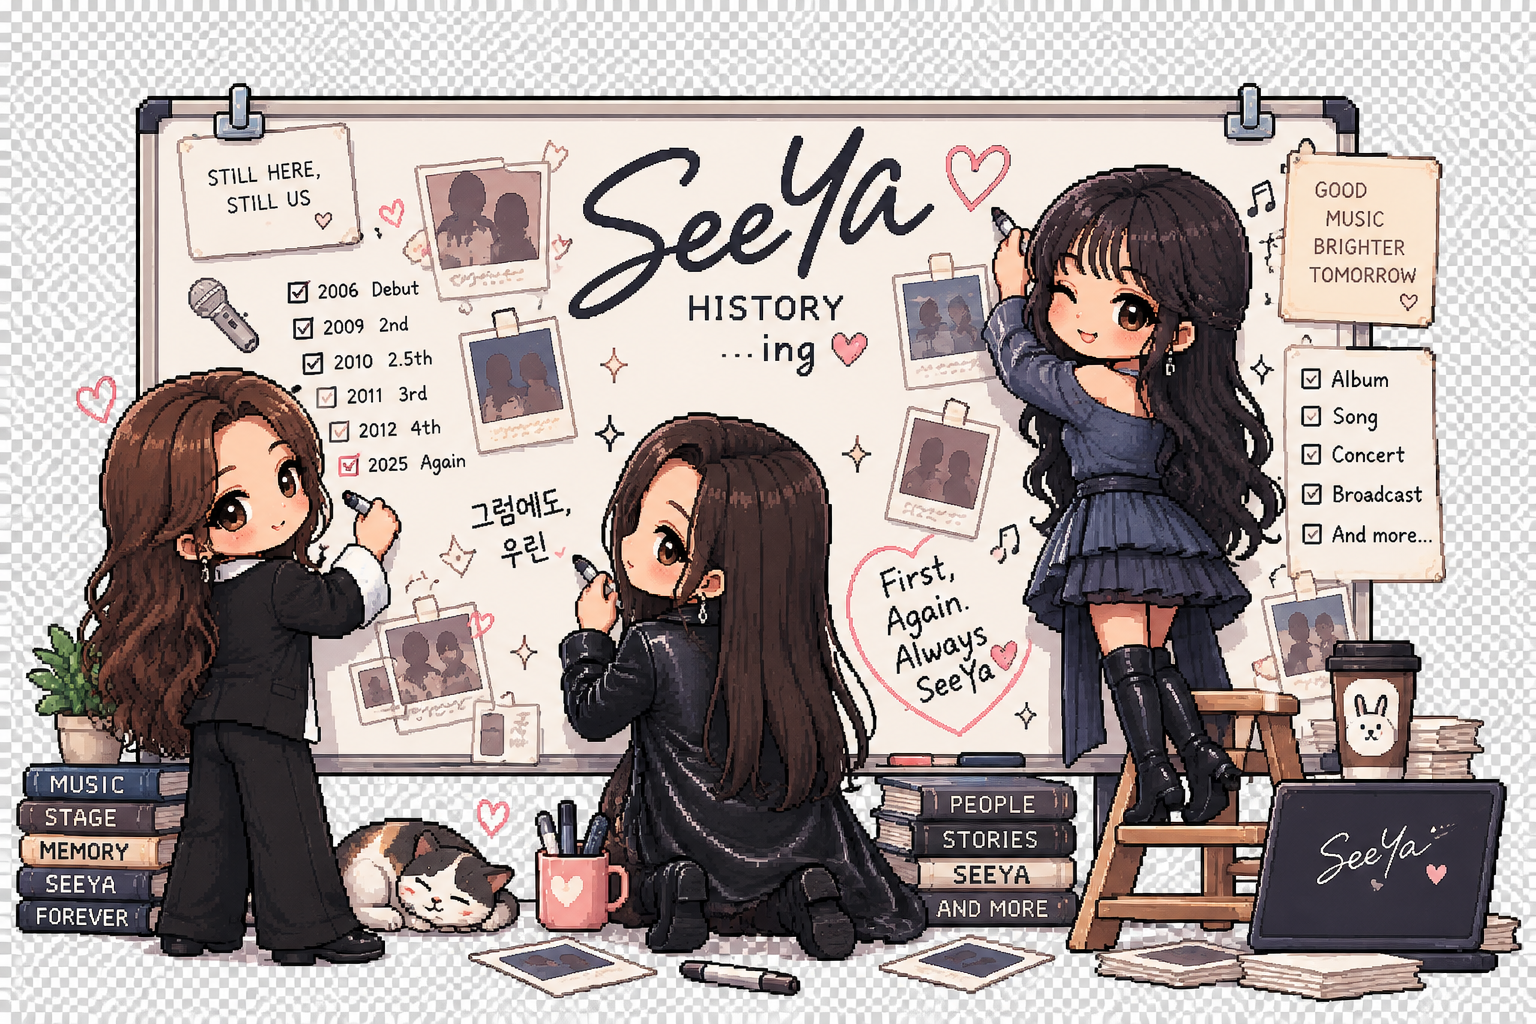
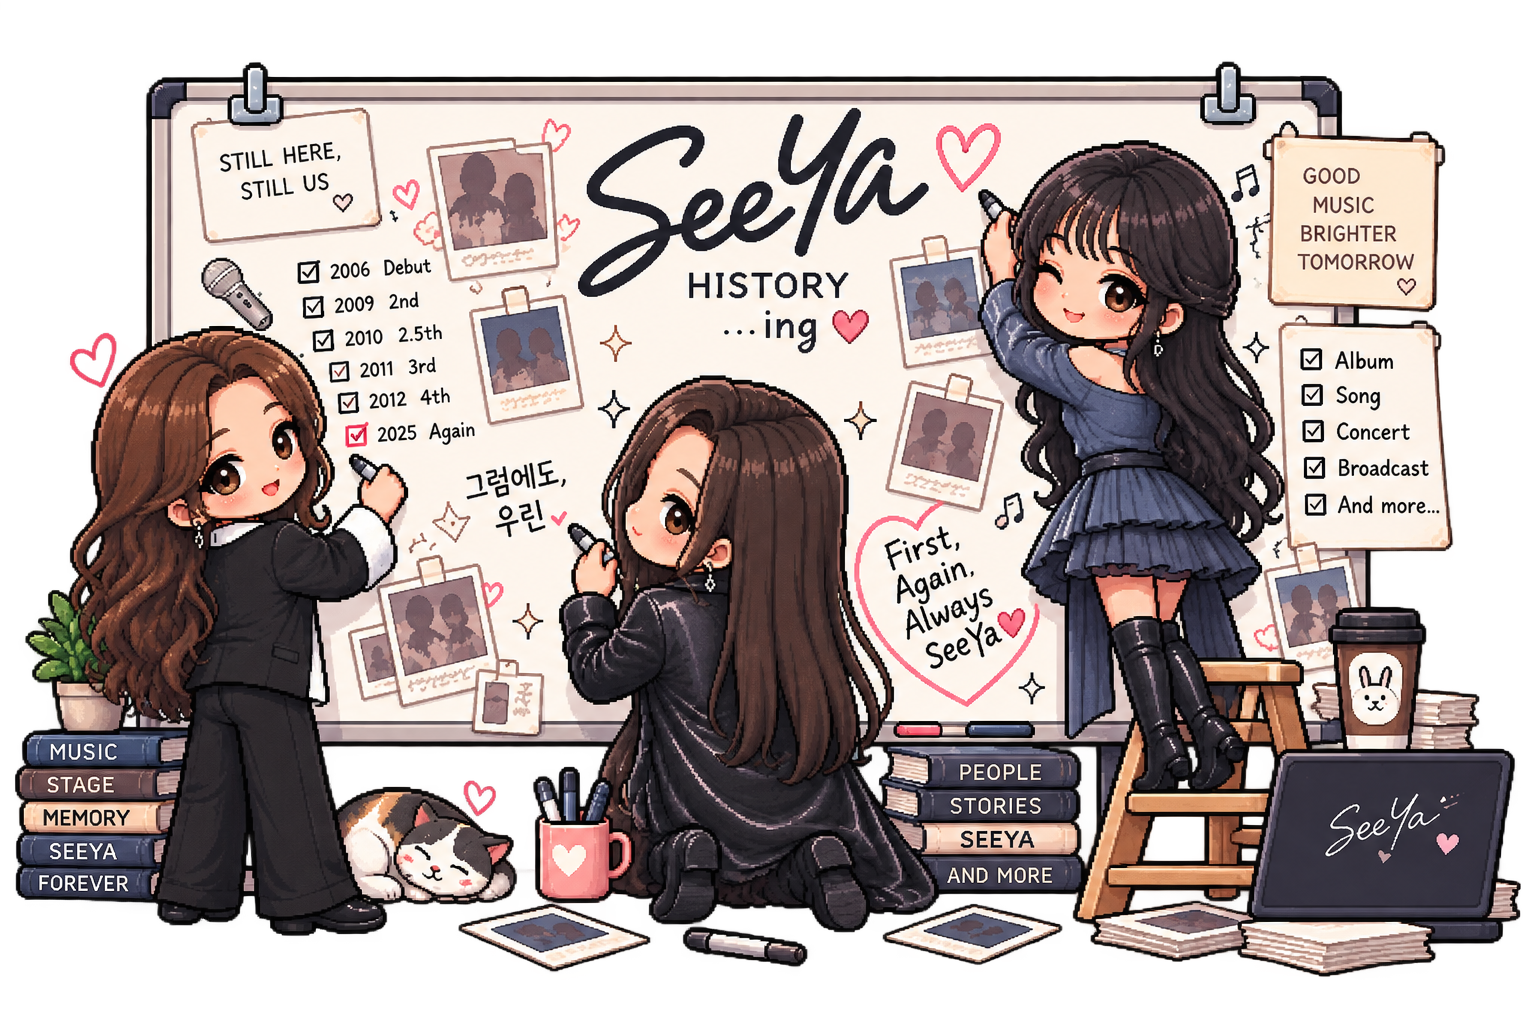
4.39

diff --git a/archive/index.html b/archive/index.html
@@ -1113,9 +1113,9 @@ body.fanchant-lightbox-open{overflow:hidden}
 /* HISTORY · CONTINUING STORY ART */
 .history-ing-art{
   position:relative;
-  width:min(1040px,96vw);
-  margin:38px auto -12px;
-  padding:22px 22px 0;
+  width:min(820px,84vw);
+  margin:34px auto -8px;
+  padding:20px 18px 0;
 }
 .history-ing-art::before{
   content:"";
@@ -1147,12 +1147,12 @@ body.fanchant-lightbox-open{overflow:hidden}
 }
 @media(max-width:700px){
   .history-ing-art{
-    width:104vw;
+    width:96vw;
     max-width:none;
-    margin:28px 0 -6px;
+    margin:26px 0 -4px;
     margin-left:50%;
     transform:translateX(-50%);
-    padding:18px 0 0;
+    padding:16px 0 0;
   }
   .history-ing-art::before{width:44vw}
 }

diff --git a/gallery/index.html b/gallery/index.html
@@ -1113,9 +1113,9 @@ body.fanchant-lightbox-open{overflow:hidden}
 /* HISTORY · CONTINUING STORY ART */
 .history-ing-art{
   position:relative;
-  width:min(1040px,96vw);
-  margin:38px auto -12px;
-  padding:22px 22px 0;
+  width:min(820px,84vw);
+  margin:34px auto -8px;
+  padding:20px 18px 0;
 }
 .history-ing-art::before{
   content:"";
@@ -1147,12 +1147,12 @@ body.fanchant-lightbox-open{overflow:hidden}
 }
 @media(max-width:700px){
   .history-ing-art{
-    width:104vw;
+    width:96vw;
     max-width:none;
-    margin:28px 0 -6px;
+    margin:26px 0 -4px;
     margin-left:50%;
     transform:translateX(-50%);
-    padding:18px 0 0;
+    padding:16px 0 0;
   }
   .history-ing-art::before{width:44vw}
 }

diff --git a/guide/index.html b/guide/index.html
@@ -1113,9 +1113,9 @@ body.fanchant-lightbox-open{overflow:hidden}
 /* HISTORY · CONTINUING STORY ART */
 .history-ing-art{
   position:relative;
-  width:min(1040px,96vw);
-  margin:38px auto -12px;
-  padding:22px 22px 0;
+  width:min(820px,84vw);
+  margin:34px auto -8px;
+  padding:20px 18px 0;
 }
 .history-ing-art::before{
   content:"";
@@ -1147,12 +1147,12 @@ body.fanchant-lightbox-open{overflow:hidden}
 }
 @media(max-width:700px){
   .history-ing-art{
-    width:104vw;
+    width:96vw;
     max-width:none;
-    margin:28px 0 -6px;
+    margin:26px 0 -4px;
     margin-left:50%;
     transform:translateX(-50%);
-    padding:18px 0 0;
+    padding:16px 0 0;
   }
   .history-ing-art::before{width:44vw}
 }

diff --git a/history/index.html b/history/index.html
@@ -1113,9 +1113,9 @@ body.fanchant-lightbox-open{overflow:hidden}
 /* HISTORY · CONTINUING STORY ART */
 .history-ing-art{
   position:relative;
-  width:min(1040px,96vw);
-  margin:38px auto -12px;
-  padding:22px 22px 0;
+  width:min(820px,84vw);
+  margin:34px auto -8px;
+  padding:20px 18px 0;
 }
 .history-ing-art::before{
   content:"";
@@ -1147,12 +1147,12 @@ body.fanchant-lightbox-open{overflow:hidden}
 }
 @media(max-width:700px){
   .history-ing-art{
-    width:104vw;
+    width:96vw;
     max-width:none;
-    margin:28px 0 -6px;
+    margin:26px 0 -4px;
     margin-left:50%;
     transform:translateX(-50%);
-    padding:18px 0 0;
+    padding:16px 0 0;
   }
   .history-ing-art::before{width:44vw}
 }

diff --git a/index.html b/index.html
@@ -1101,9 +1101,9 @@ body.fanchant-lightbox-open{overflow:hidden}
 /* HISTORY · CONTINUING STORY ART */
 .history-ing-art{
   position:relative;
-  width:min(1040px,96vw);
-  margin:38px auto -12px;
-  padding:22px 22px 0;
+  width:min(820px,84vw);
+  margin:34px auto -8px;
+  padding:20px 18px 0;
 }
 .history-ing-art::before{
   content:"";
@@ -1135,12 +1135,12 @@ body.fanchant-lightbox-open{overflow:hidden}
 }
 @media(max-width:700px){
   .history-ing-art{
-    width:104vw;
+    width:96vw;
     max-width:none;
-    margin:28px 0 -6px;
+    margin:26px 0 -4px;
     margin-left:50%;
     transform:translateX(-50%);
-    padding:18px 0 0;
+    padding:16px 0 0;
   }
   .history-ing-art::before{width:44vw}
 }

diff --git a/members/index.html b/members/index.html
@@ -1113,9 +1113,9 @@ body.fanchant-lightbox-open{overflow:hidden}
 /* HISTORY · CONTINUING STORY ART */
 .history-ing-art{
   position:relative;
-  width:min(1040px,96vw);
-  margin:38px auto -12px;
-  padding:22px 22px 0;
+  width:min(820px,84vw);
+  margin:34px auto -8px;
+  padding:20px 18px 0;
 }
 .history-ing-art::before{
   content:"";
@@ -1147,12 +1147,12 @@ body.fanchant-lightbox-open{overflow:hidden}
 }
 @media(max-width:700px){
   .history-ing-art{
-    width:104vw;
+    width:96vw;
     max-width:none;
-    margin:28px 0 -6px;
+    margin:26px 0 -4px;
     margin-left:50%;
     transform:translateX(-50%);
-    padding:18px 0 0;
+    padding:16px 0 0;
   }
   .history-ing-art::before{width:44vw}
 }

diff --git a/music/fanchant/index.html b/music/fanchant/index.html
@@ -1113,9 +1113,9 @@ body.fanchant-lightbox-open{overflow:hidden}
 /* HISTORY · CONTINUING STORY ART */
 .history-ing-art{
   position:relative;
-  width:min(1040px,96vw);
-  margin:38px auto -12px;
-  padding:22px 22px 0;
+  width:min(820px,84vw);
+  margin:34px auto -8px;
+  padding:20px 18px 0;
 }
 .history-ing-art::before{
   content:"";
@@ -1147,12 +1147,12 @@ body.fanchant-lightbox-open{overflow:hidden}
 }
 @media(max-width:700px){
   .history-ing-art{
-    width:104vw;
+    width:96vw;
     max-width:none;
-    margin:28px 0 -6px;
+    margin:26px 0 -4px;
     margin-left:50%;
     transform:translateX(-50%);
-    padding:18px 0 0;
+    padding:16px 0 0;
   }
   .history-ing-art::before{width:44vw}
 }

diff --git a/music/index.html b/music/index.html
@@ -1113,9 +1113,9 @@ body.fanchant-lightbox-open{overflow:hidden}
 /* HISTORY · CONTINUING STORY ART */
 .history-ing-art{
   position:relative;
-  width:min(1040px,96vw);
-  margin:38px auto -12px;
-  padding:22px 22px 0;
+  width:min(820px,84vw);
+  margin:34px auto -8px;
+  padding:20px 18px 0;
 }
 .history-ing-art::before{
   content:"";
@@ -1147,12 +1147,12 @@ body.fanchant-lightbox-open{overflow:hidden}
 }
 @media(max-width:700px){
   .history-ing-art{
-    width:104vw;
+    width:96vw;
     max-width:none;
-    margin:28px 0 -6px;
+    margin:26px 0 -4px;
     margin-left:50%;
     transform:translateX(-50%);
-    padding:18px 0 0;
+    padding:16px 0 0;
   }
   .history-ing-art::before{width:44vw}
 }

diff --git a/news/index.html b/news/index.html
@@ -1113,9 +1113,9 @@ body.fanchant-lightbox-open{overflow:hidden}
 /* HISTORY · CONTINUING STORY ART */
 .history-ing-art{
   position:relative;
-  width:min(1040px,96vw);
-  margin:38px auto -12px;
-  padding:22px 22px 0;
+  width:min(820px,84vw);
+  margin:34px auto -8px;
+  padding:20px 18px 0;
 }
 .history-ing-art::before{
   content:"";
@@ -1147,12 +1147,12 @@ body.fanchant-lightbox-open{overflow:hidden}
 }
 @media(max-width:700px){
   .history-ing-art{
-    width:104vw;
+    width:96vw;
     max-width:none;
-    margin:28px 0 -6px;
+    margin:26px 0 -4px;
     margin-left:50%;
     transform:translateX(-50%);
-    padding:18px 0 0;
+    padding:16px 0 0;
   }
   .history-ing-art::before{width:44vw}
 }

diff --git a/today/index.html b/today/index.html
@@ -1113,9 +1113,9 @@ body.fanchant-lightbox-open{overflow:hidden}
 /* HISTORY · CONTINUING STORY ART */
 .history-ing-art{
   position:relative;
-  width:min(1040px,96vw);
-  margin:38px auto -12px;
-  padding:22px 22px 0;
+  width:min(820px,84vw);
+  margin:34px auto -8px;
+  padding:20px 18px 0;
 }
 .history-ing-art::before{
   content:"";
@@ -1147,12 +1147,12 @@ body.fanchant-lightbox-open{overflow:hidden}
 }
 @media(max-width:700px){
   .history-ing-art{
-    width:104vw;
+    width:96vw;
     max-width:none;
-    margin:28px 0 -6px;
+    margin:26px 0 -4px;
     margin-left:50%;
     transform:translateX(-50%);
-    padding:18px 0 0;
+    padding:16px 0 0;
   }
   .history-ing-art::before{width:44vw}
 }

diff --git a/README.md b/README.md
@@ -1,13 +1,10 @@
-# SEEYA ARCHIVE v4.38 — HISTORY Continuing Story Art
+# SEEYA ARCHIVE v4.39 — HISTORY Transparent Art / Size Tuning
 
-v4.37 기반.
+v4.38 기반.
 
 ## HISTORY 변경
-- 사용자가 제공한 도트 일러스트를 `images/history/seeya-history-ing.png`로 추가
-- HISTORY 최하단 `계속되는 이야기. / SEE YOU ALWAYS.` 아래에 배치
-- 별도 카드/박스 없이 페이지 배경에 자연스럽게 이어지는 엔딩 비주얼로 구성
-- PC에서는 최대 약 1040px
-- 모바일에서는 화면 폭을 조금 넓게 사용해 캐릭터/화이트보드 디테일 유지
-- 위쪽에 Pearl Light Pink의 짧은 구분선
-- 아주 약한 핑크 글로우와 그림자만 사용
-- 장식 이미지이므로 alt는 빈 값
+- 사용자가 제공한 투명 배경 PNG로 HISTORY 하단 도트 일러스트 교체
+- PC 최대 폭: 약 1040px → 약 820px
+- PC viewport 기준 폭도 96vw → 84vw로 축소
+- 모바일은 104vw → 96vw로 줄여 과도한 확대 방지
+- 기존 엔딩 배치/구분선/약한 글로우는 유지
